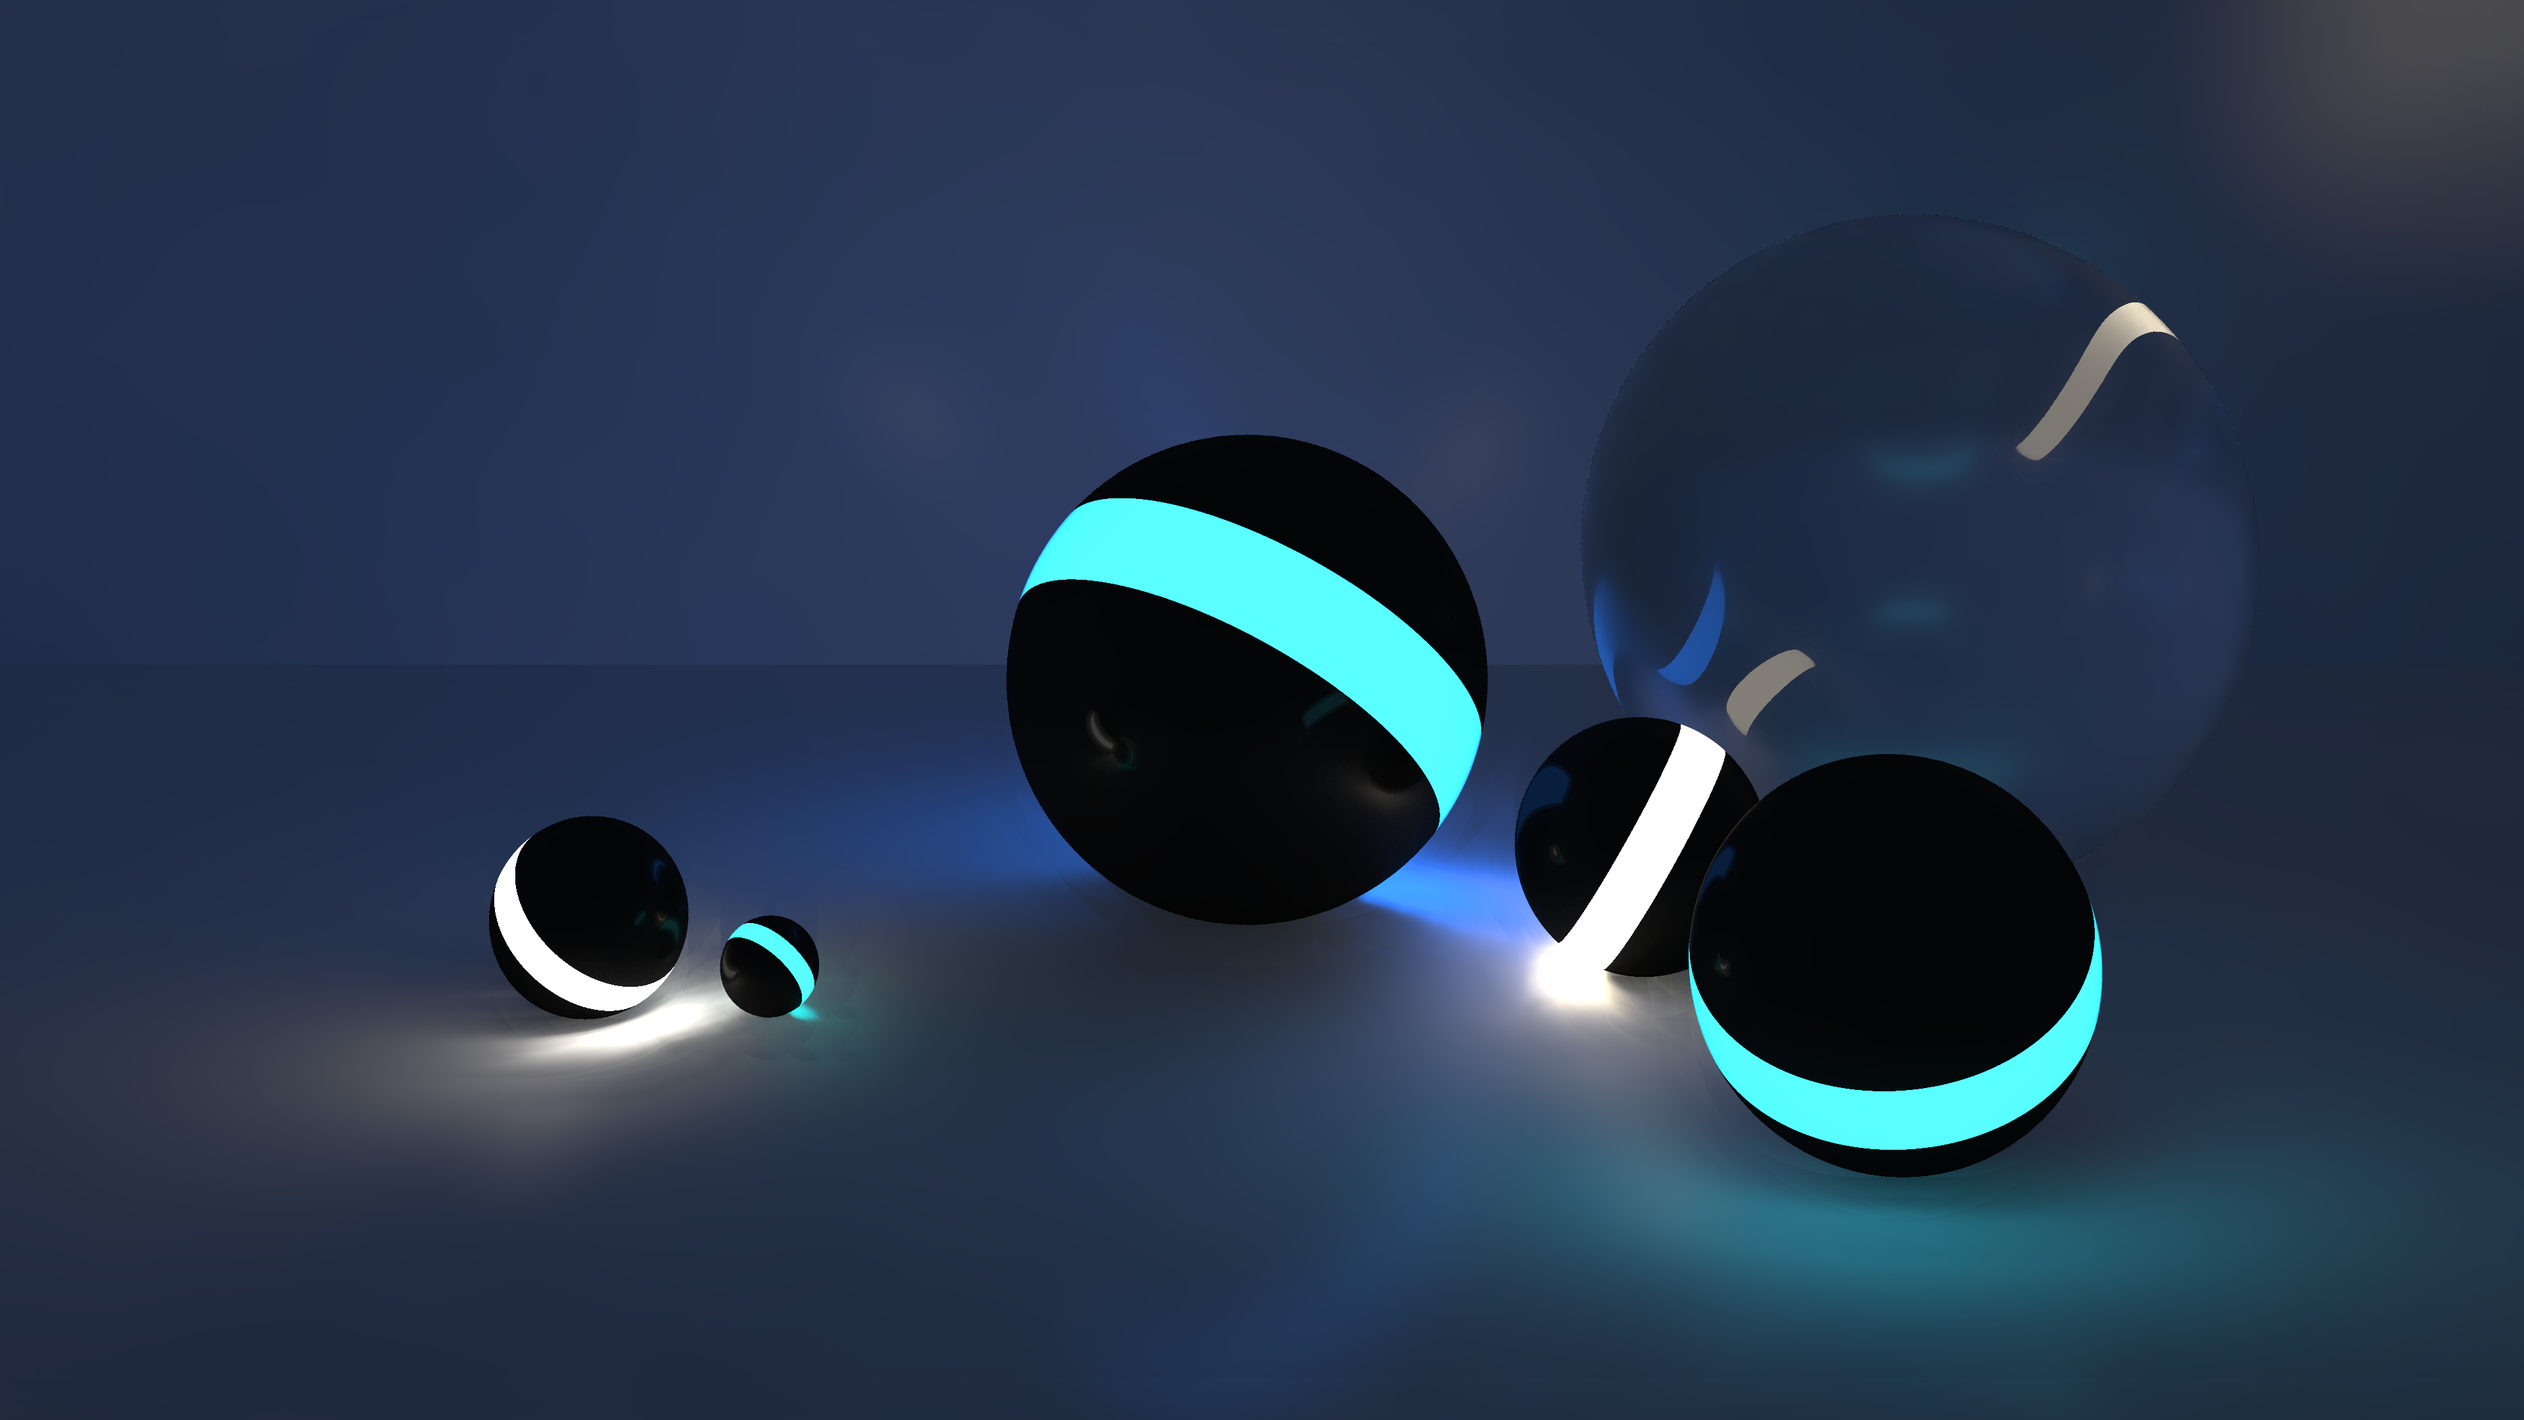
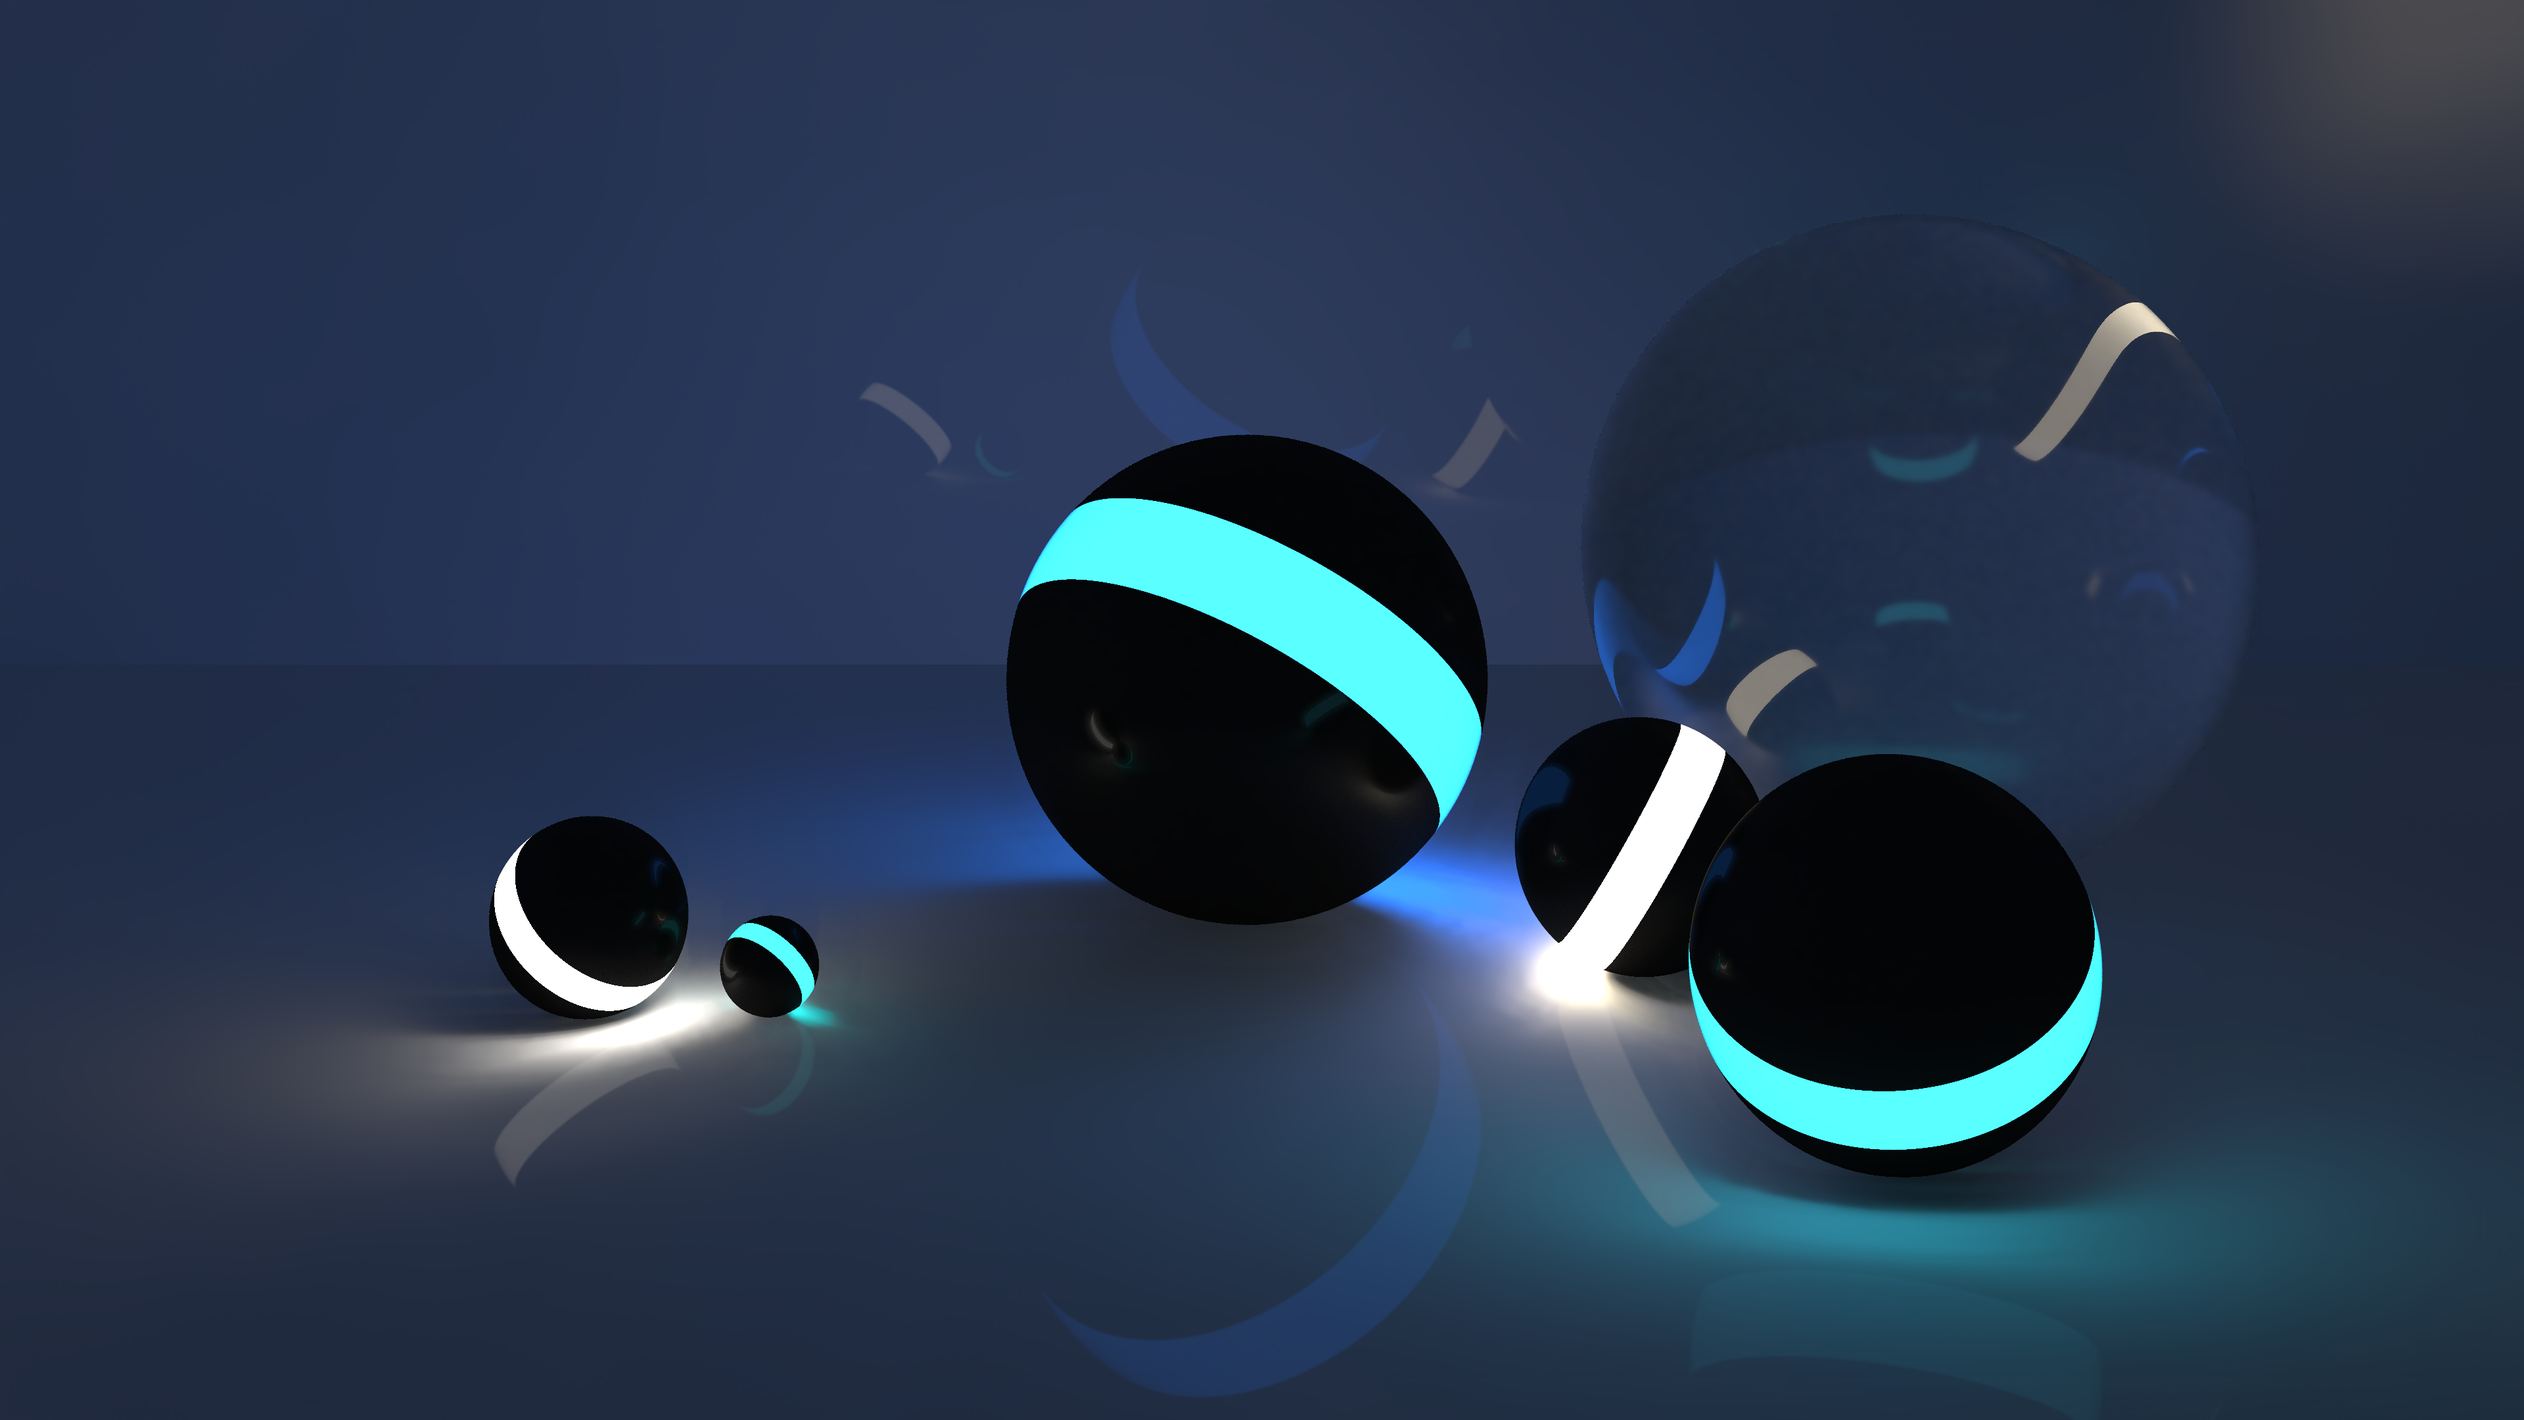
Preserve caustics and specular detail in 4K radiance cache

diff --git a/hw2/sppm/benchmark.py b/hw2/sppm/benchmark.py
@@ -26,6 +26,7 @@ REGIONS = {
 
 def run_job(job, options, directory):
     scene, algorithm, iterations, seed, gpu = job
+    cached = algorithm in ("cache", "cache_hq")
     label = f"{scene}-{algorithm}-i{iterations:03d}-s{seed}"
     image = directory / f"{label}.ppm"
     command = [str(options.binary), str(options.width), str(options.height), str(image)]
@@ -33,19 +34,21 @@ def run_job(job, options, directory):
         command += [str(iterations * 8)]
     else:
         photons = "5" if scene == "vase" else "8"
-        if algorithm == "cache" and options.width >= 1920:
+        if cached and options.width >= 1920:
             photons = "16" if scene == "vase" else "10" if iterations <= 8 else "8"
         command += [str(iterations), photons, ".5", "1"]
     command += ["--scene", scene, "--nearest", "--seed", str(seed)]
-    if algorithm in ("hybrid", "reuse", "guided", "cache"):
-        samples = min(iterations * 16, 64) if algorithm == "cache" and options.width >= 1920 else iterations * 16
+    if algorithm in ("hybrid", "reuse", "guided", "cache", "cache_hq"):
+        samples = iterations * 16
+        if cached and options.width >= 1920:
+            samples = (256 if algorithm == "cache_hq" else 192) if scene == "balls" else 64
         command += ["--hybrid-samples", str(samples), "--reconstruction-radius",
                     "4" if scene == "vase" else "8"]
     if algorithm == "reuse":
         command.append("--reuse")
     if algorithm == "guided":
         command.append("--guided")
-    if algorithm == "cache":
+    if cached:
         command.append("--cache")
         if scene == "vase" and options.width >= 1920:
             command += ["--shadow-samples", "3"]
@@ -103,10 +106,12 @@ def plot(summaries, destination):
     import matplotlib.pyplot as plt
 
     colors = {"pt": "#d15f4a", "sppm": "#c79a35", "hybrid": "#657bc2", "reuse": "#2b9e77",
-              "guided": "#9146ad", "cache": "#138c9e"}
+              "guided": "#9146ad", "cache_blur": "#c78145", "cache": "#138c9e",
+              "cache_hq": "#075c69"}
     names = {"pt": "Path tracing", "sppm": "SPPM", "hybrid": "Hybrid SPPM",
              "reuse": "Stratified reuse", "guided": "Guided decomposition",
-             "cache": "Resolution-aware cache"}
+             "cache_blur": "Previous over-smoothed cache", "cache": "Detail-preserving cache",
+             "cache_hq": "Detail-preserving cache (HQ)"}
     figure, axes = plt.subplots(2, 2, figsize=(11, 7), constrained_layout=True)
     for row, scene in enumerate(("vase", "balls")):
         for algorithm in colors:
@@ -123,7 +128,7 @@ def plot(summaries, destination):
                          else "GPU kernel time (seconds)", ylabel="Independent-seed noise RMS")
                 axis.set_title(scene.capitalize())
                 axis.grid(alpha=.2, which="both")
-    axes[0, 1].legend(frameon=False)
+    axes[1, 1].legend(frameon=False, fontsize=8)
     figure.savefig(destination, dpi=180, facecolor="white")
     plt.close(figure)
 

diff --git a/README.md b/README.md
@@ -92,12 +92,12 @@ $$L_o = L_{\mathrm{diffuse,SPPM}} + L_{\mathrm{specular,PT}} + L_{\mathrm{direct
 `--cache` 在 Guided Hybrid 的物理传输分解之上增加五个变化：
 
 1. **按分辨率控制光子支持域。** 令 $s=\min(1,\sqrt{640\cdot360/(WH)})$，自动使用 $r'=r\max(0.24,s)$、$\rho'=\rho s$，避免高分辨率下对同一世界坐标邻域做二次增长的重复查询。
-2. **把混合 BSDF 明确拆成两个估计量。** 漫反射分支始终交给 SPPM，并乘以 $1-p_{\mathrm{specular}}$；镜面分支由独立相机路径估计，再乘回 $p_{\mathrm{specular}}$。因此地板倒影、瓷器高光和玻璃反射不参与漫反射缓存，不会被光子半径涂开。
-3. **缓存可复用的辐照度，而不是直接糊 RGB。** 先除掉纹理反照率，再用跨度为 1、2、4、8……像素的几何约束 à-trous 层级复用照明，最后恢复原像素纹理。物体 ID、法线、世界平面距离、反照率、材质类型和亮度差异共同限制复用；有镜面高光的黑色条纹像素直接绕过缓存。
+2. **把混合 BSDF 明确拆成两个估计量。** 漫反射分支交给 SPPM，并乘以 $1-p_{\mathrm{specular}}$；镜面分支由独立相机路径估计，再乘回 $p_{\mathrm{specular}}$。对于光源被玻璃包裹的焦散场景，大范围缓存必须放在镜面和折射合成之前，合成后只允许跨度不超过 2 像素的局部复用；否则地板倒影和玻璃内部反射会被错误平均成发光特效。
+3. **缓存可复用的辐照度，而不是直接糊 RGB。** 先除掉纹理反照率，再用跨度为 1、2、4、8……像素的几何约束 à-trous 层级复用漫反射照明，最后恢复原像素纹理。物体 ID、法线、世界平面距离、反照率、材质类型和亮度差异共同限制复用；焦散场景提高亮度差异惩罚，有镜面高光的黑色条纹像素直接绕过缓存。
 4. **把可确定部分从随机变量里拿掉。** 针孔相机使用稳定的分层子像素位置，面积光直接连接使用逐像素确定性低差异序列；开启真实光圈时仍保留随机透镜采样。光子和玻璃路径继续使用独立随机种子，不把实际采样方差藏进固定序列。
-5. **按光源可见性分配缓存尺度和采样预算。** 外露面积光场景可以使用更宽的漫反射辐照度 footprint；被玻璃包住的光源保留更紧的尺度，防止球面倒影和折射焦散发生亮度偏移。低迭代档位适当提高每轮光子预算，减少启动镜面路径以后的额外循环。核心判断来自场景几何、材质和光源遮挡，不依赖 `vase`、`balls` 等场景名称。
+5. **按光源可见性分配缓存尺度和采样预算。** 外露面积光场景可以使用更宽的漫反射辐照度 footprint；被玻璃包住的光源自动切换到“先漫反射、后镜面”的保真模式。透明玻璃使用 192–256 个相机路径样本，带条纹遮罩的球体限制为 64 个，避免把昂贵预算浪费在已经收敛的颜色带上。核心判断来自场景几何、材质和光源遮挡，不依赖 `vase`、`balls` 等场景名称。
 
-辐照度空间复用是明确的**有偏降方差**，不是逐像素无偏 Monte Carlo；确定性采样也可能保留跨 seed 不可见的系统误差。因此除了四个独立 seed 的真实 RMS，还同时检查场景原始亮度、花纹梯度、玻璃边界和地板倒影，拒绝把画面调暗、磨平或者改变场景来获得好看的数字。
+辐照度空间复用是明确的**有偏降方差**，不是逐像素无偏 Monte Carlo；确定性采样也可能保留跨 seed 不可见的系统误差。只看随机噪声会奖励过度平滑，因此必须同时约束地板倒影、玻璃边缘、条纹梯度和场景亮度。原始 balls 分支的 CPU 渲染器也已经重新编译交叉验证，不能拿经过不同曝光处理的图片强行把当前场景压暗。
 
 **3840×2160，一张 NVIDIA H200，CUDA event 统计 GPU kernel：**
 
@@ -110,15 +110,23 @@ $$L_o = L_{\mathrm{diffuse,SPPM}} + L_{\mathrm{specular,PT}} + L_{\mathrm{direct
 | 花瓶 | **分辨率自适应缓存** | **24** | **4** | **41.438 s** | **0.292** |
 | Balls | Guided Hybrid | 8 | 2 | 60.778 s | 0.976 |
 | Balls | Guided Hybrid | 16 | 2 | 116.867 s | 0.723 |
-| Balls | **分辨率自适应缓存：极速** | **8** | **4** | **11.441 s** | **0.269** |
-| Balls | **分辨率自适应缓存** | **16** | **4** | **12.720 s** | **0.237** |
-| Balls | 分辨率自适应缓存 | 24 | 4 | 14.366 s | 0.213 |
+| Balls | 旧缓存：过度平滑 | 16 | 4 | 12.720 s | 0.237 |
+| Balls | 保留细节的分量缓存 | 8 | 4 | 15.902 s | 0.325 |
+| Balls | 保留细节的分量缓存 | 16 | 4 | 17.205 s | 0.296 |
+| Balls | **保留细节的分量缓存** | **24** | **4** | **18.804 s** | **0.274** |
+| Balls | 保留细节的分量缓存 HQ | 16 | 4 | 19.356 s | 0.281 |
 
-花瓶 24 轮的白瓷 / 蓝花 / 整体 / 彩虹 / 地板 RMS 分别为 **0.464 / 0.226 / 0.273 / 0.271 / 0.111**；balls 16 轮的背景 / 地板 / 倒影 / 玻璃 / 条纹 RMS 分别为 **0.253 / 0.264 / 0.209 / 0.318 / 0.031**。彩色条纹边缘梯度由 Guided 的 100.63 变为 100.74，白瓷边缘由 144.23 变为 144.44；balls 背景亮度为 49.32，旧算法为 49.34，没有通过统一压暗来隐藏噪点。
+下面是同一 4K 场景的保真度检查。过去的缓存虽然把 RMS 压到了 0.237，却损失了 **12.6% 的地板倒影边缘**和 **14.8% 的玻璃边缘**；这些确定性的画面偏差不会出现在跨 seed RMS 里。
 
-和上一代 4K Guided Hybrid 的 16 轮相比，花瓶在噪声下降的同时约快 **6.48×**；balls 的 8 轮极速档快 **10.21×**，16 轮低噪档快 **9.19×**。按 $\sigma^2t$ 计算，花瓶和 balls 低噪档的方差—时间效率分别提高约 **31×** 和 **86×**。历史 Guided 基线使用两个独立 seed，新算法使用要求更严格的四个独立 seed；完整逐区域亮度、边缘与噪声见 [docs/render/convergence-4k.csv](docs/render/convergence-4k.csv)。
+| 算法 | 地板倒影边缘 | 玻璃边缘 | 条纹边缘 | 背景亮度 |
+| --- | ---: | ---: | ---: | ---: |
+| Guided Hybrid 参考 | 37.91 | 13.44 | 100.63 | 49.34 |
+| 旧缓存：过度平滑 | 33.15 | 11.45 | 100.74 | 49.32 |
+| 保留细节的分量缓存 | **37.91** | **13.17** | **100.51** | **49.32** |
 
-![原生 4K Guided Hybrid 与分辨率自适应辐照度缓存的独立 seed 收敛曲线](docs/render/convergence-4k.png)
+花瓶 24 轮的白瓷 / 蓝花 / 整体 / 彩虹 / 地板 RMS 分别为 **0.464 / 0.226 / 0.273 / 0.271 / 0.111**；balls 24 轮的背景 / 地板 / 倒影 / 玻璃 / 条纹 RMS 分别为 **0.206 / 0.212 / 0.239 / 0.474 / 0.090**。HQ 档位进一步把玻璃 RMS 降到 **0.441**。和上一代 4K Guided Hybrid 的 16 轮相比，花瓶约快 **6.48×**，balls 16 轮在保留倒影和玻璃细节的前提下约快 **6.79×**；按 $\sigma^2t$ 计算，两者的方差—时间效率分别提高约 **31×** 和 **41×**。历史 Guided 基线使用两个独立 seed，缓存算法使用要求更严格的四个独立 seed；完整逐区域亮度、边缘与噪声见 [docs/render/convergence-4k.csv](docs/render/convergence-4k.csv)。
+
+![原生 4K Guided Hybrid、过度平滑缓存与保留镜面细节的分量缓存收敛曲线](docs/render/convergence-4k.png)
 
 #### 同场景渲染对比
 
@@ -279,14 +287,19 @@ nvcc -O3 -arch=sm_90 -std=c++17 cuda.cu -o render-cuda
   --scene vase --nearest --shadow-samples 3 \
   --hybrid-samples 64 --reconstruction-radius 4 --cache
 
-# 原生 4K Balls：16 轮；保留彩色条纹、黑球高光和玻璃焦散
-./render-cuda 3840 2160 balls-cache-4k.ppm 16 8 .5 1 \
-  --scene balls --nearest --hybrid-samples 64 \
+# 原生 4K Balls：24 轮，18.804 秒 / RMS 0.274；保留倒影和玻璃焦散
+./render-cuda 3840 2160 balls-cache-4k.ppm 24 8 .5 1 \
+  --scene balls --nearest --hybrid-samples 192 \
   --reconstruction-radius 8 --cache
 
-# 原生 4K Balls 极速档：8 轮、每轮 10 个光子
-./render-cuda 3840 2160 balls-cache-fast-4k.ppm 8 10 .5 1 \
-  --scene balls --nearest --hybrid-samples 64 \
+# 原生 4K Balls 快速档：16 轮，17.205 秒 / RMS 0.296
+./render-cuda 3840 2160 balls-cache-fast-4k.ppm 16 8 .5 1 \
+  --scene balls --nearest --hybrid-samples 192 \
+  --reconstruction-radius 8 --cache
+
+# 原生 4K Balls HQ：19.356 秒；更多玻璃样本，条纹球仍限制为 64
+./render-cuda 3840 2160 balls-cache-hq-4k.ppm 16 8 .5 1 \
+  --scene balls --nearest --hybrid-samples 256 \
   --reconstruction-radius 8 --cache
 
 # 8K 花瓶；高分辨率下相应缩小光子汇合半径
@@ -318,6 +331,10 @@ python3 benchmark.py --binary ./render-cuda --algorithms cache \
   --iterations 8,16,24 --seeds 0,1,2,3 \
   --width 3840 --height 2160 \
   --gpus 0,1,2,3,4,5,6,7 --output /tmp/sppm-4k-cache
+
+# 只对比保真标准档和 HQ 档
+python3 benchmark.py --binary ./render-cuda --algorithms cache,cache_hq \
+  --iterations 16 --seeds 0,1,2,3 --width 3840 --height 2160 --gpus 0,1,2,3
 
 # 单卡把 --gpus 改成 0；快速验证可以缩短为：
 python3 benchmark.py --binary ./render-cuda \
